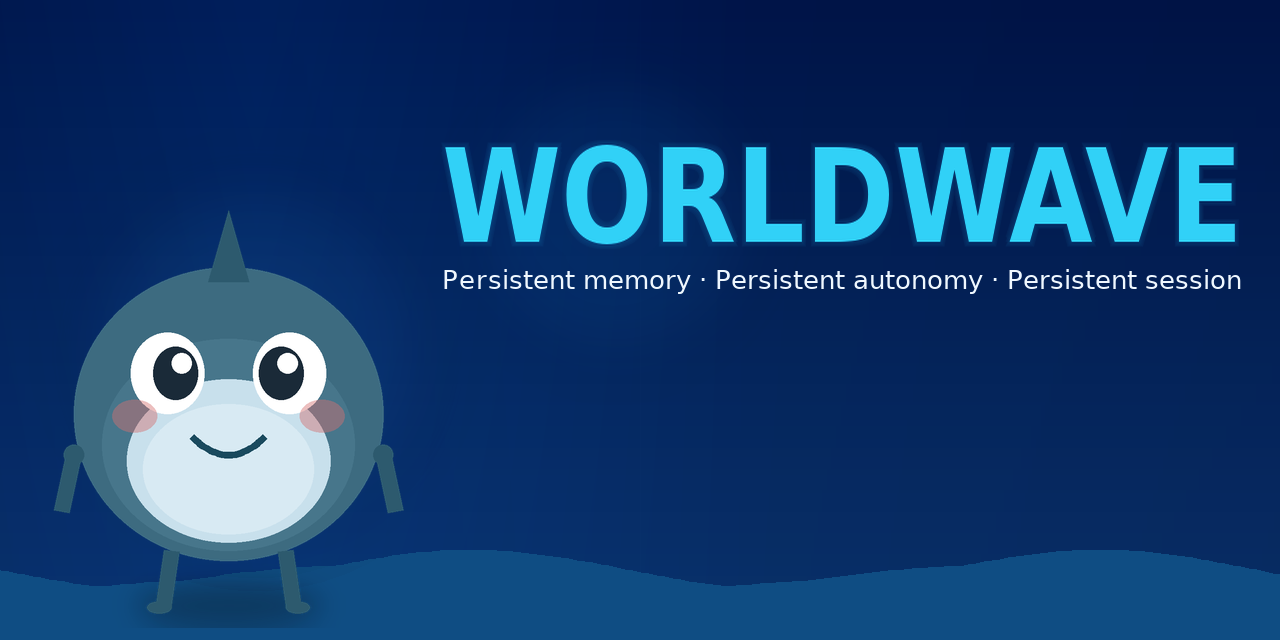
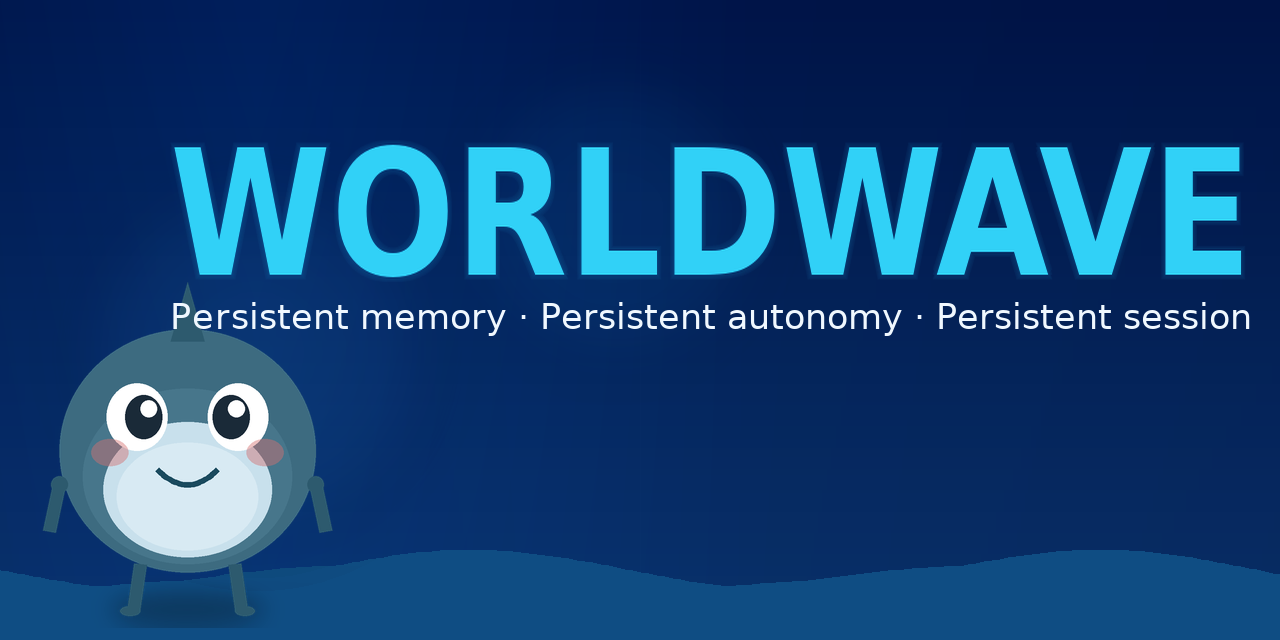
Hero: real -20% left shift (shark overlap allowed)

Changed region(s): [[0.0312, 0.2188, 0.9688, 0.9688]]

diff --git a/scripts/_render_hero.py b/scripts/_render_hero.py
@@ -159,12 +159,12 @@ def draw_text_exact_width(
 def compose(w: int, h: int, out_path: Path) -> None:
     bg = make_bg(w, h)
 
-    # Shark (left), same spirit as base frame
+    # Shark (left); smaller so title can honor -20% left shift
     sh = shark.copy()
-    target_h = int(h * 0.70)
+    target_h = int(h * 0.58)
     ratio = target_h / sh.height
     sh = sh.resize((max(1, int(sh.width * ratio)), target_h), Image.Resampling.LANCZOS)
-    sx = int(w * 0.02)
+    sx = int(w * 0.015)
     sy = h - sh.height - int(h * 0.02)
     bg.paste(sh, (sx, sy), sh)
 
@@ -173,11 +173,13 @@ def compose(w: int, h: int, out_path: Path) -> None:
     sub = "Persistent memory · Persistent autonomy · Persistent session"
     margin_r = 24
 
-    # Base left from reference, then shift left 20% of canvas
+    # Base left from reference (~31%), then shift left 20% of canvas
     ref_left = int(w * REF_TITLE_LEFT_FRAC)
     text_left = int(ref_left - LEFT_SHIFT_FRAC * w)
-    min_left = sx + sh.width + int(w * 0.008)
+    # Allow mild overlap over shark body (mascot sits under/behind type)
+    min_left = sx + int(sh.width * 0.45)
     text_left = max(min_left, text_left)
+    text_left = max(int(w * 0.08), text_left)
     max_w = w - text_left - margin_r
 
     # Title size: as large as fits width after left shift